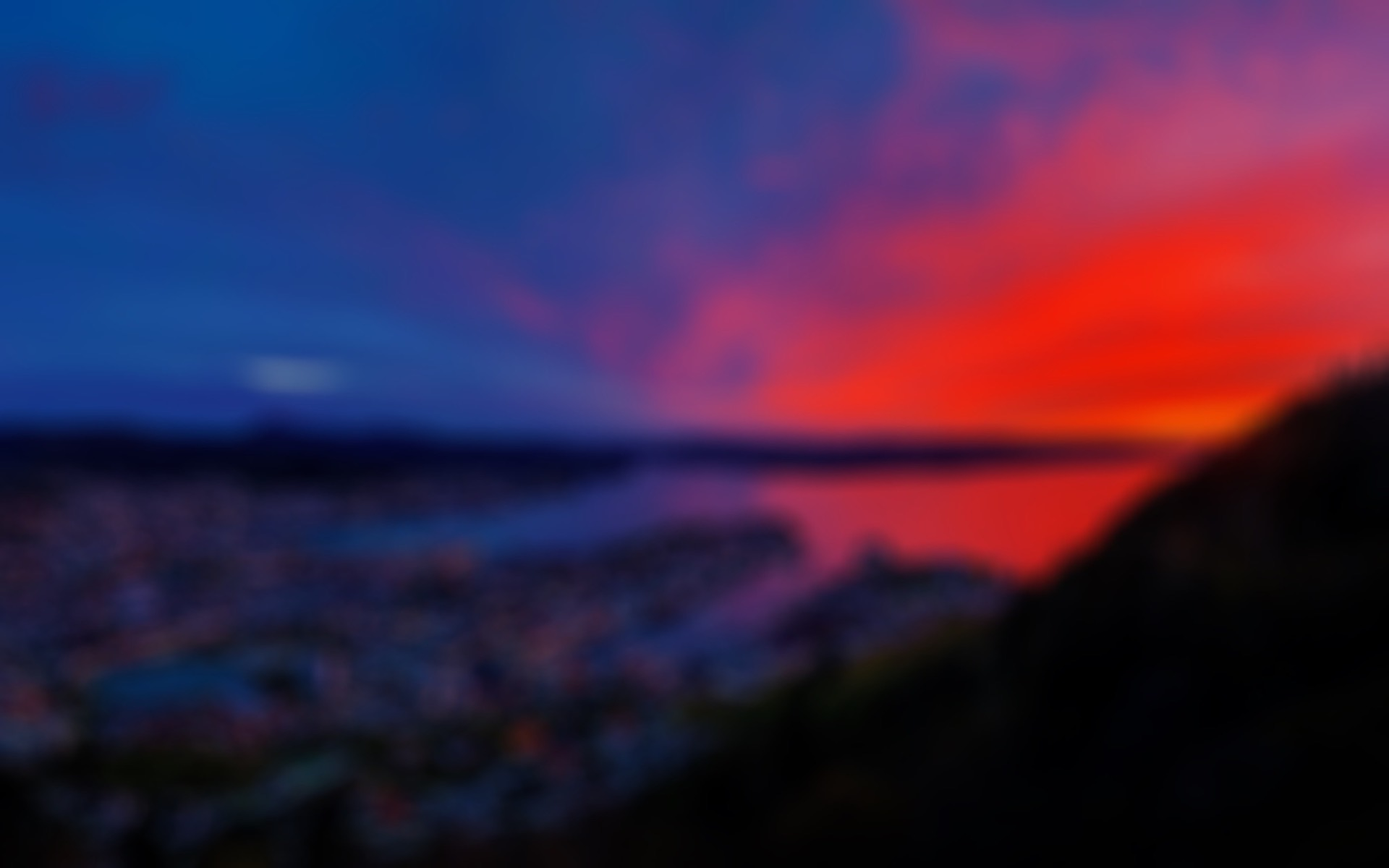
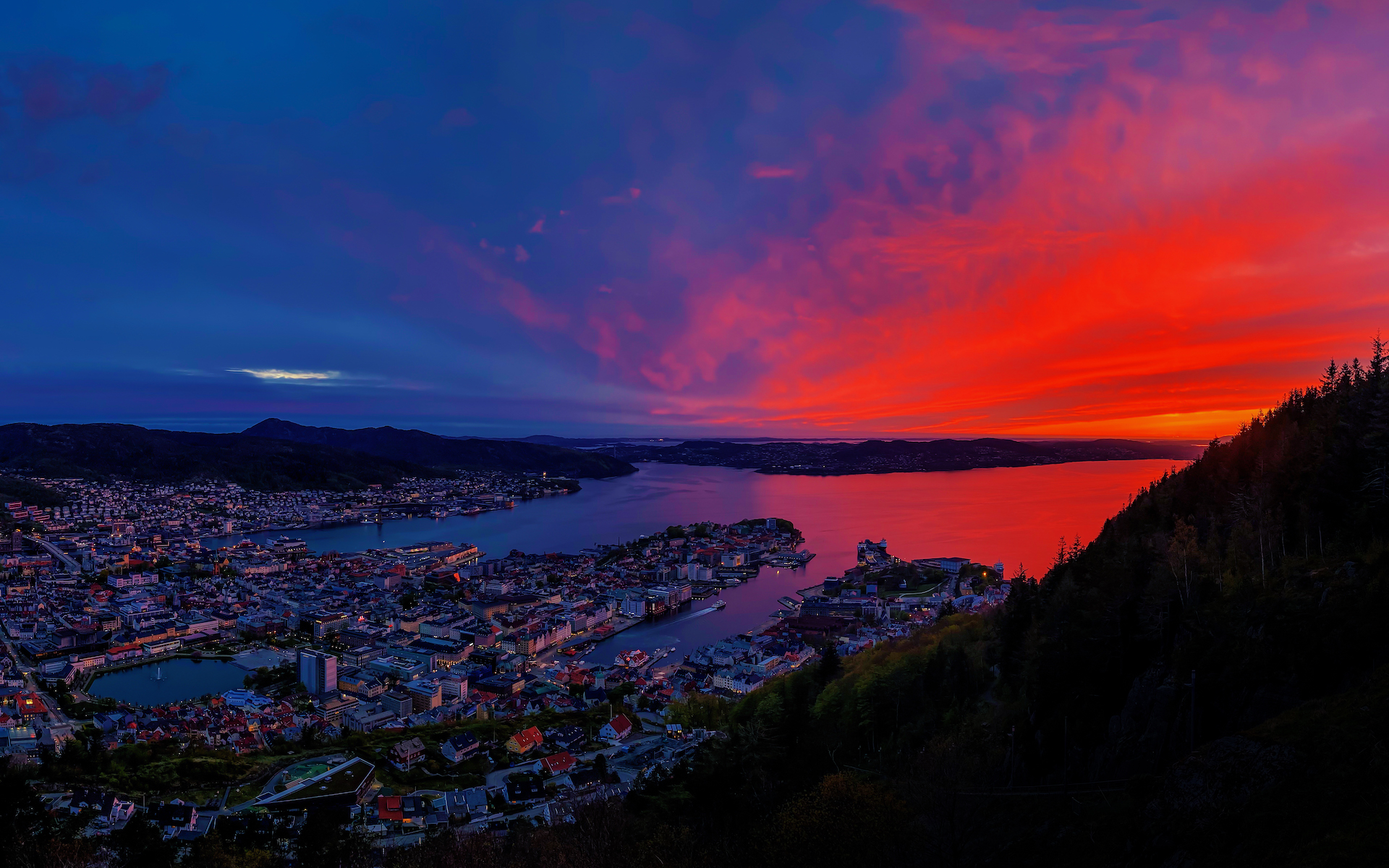
Who has two thumbs and remembers the rudiments of his linear algebra courses?  Apparently, this guy.

diff --git a/styles.css b/styles.css
@@ -10,10 +10,8 @@
 body {
     padding: 0;
     margin: 0;
-
-    background: var(--bg-image);
     background-color: var(--bg-color);
-    background-size: cover;
+    /* background-size: cover; */
     color: var(--text-color);
 
     font-family: 'Raleway', sans-serif;
@@ -21,6 +19,22 @@ body {
 
     user-select: none;
     animation: fadein 1s;
+}
+
+.page-bg {
+  background-image: var(--bg-image);
+  background-size: cover;
+  -webkit-filter: blur(13px);
+    -moz-filter: blur(13px);
+    -o-filter: blur(13px);
+    -ms-filter: blur(13px);
+    filter: blur(13px);
+  position: fixed;
+  width: 100%;
+  height: 100%;
+  top: 0;
+  left: 0;
+  z-index: -1;
 }
 
 #logo {
@@ -108,4 +122,10 @@ a {
     20% { opacity: 0.3; }
     80% { opacity: 0.3; }
     100%   { opacity: 0; }
+}
+
+.cbp-rfgrid li:hover img {
+-webkit-filter: blur(2px);
+-moz-filter: blur(2px);
+filter: blur(2px);
 }

diff --git a/index.html b/index.html
@@ -15,6 +15,8 @@
     <link rel="stylesheet" href="styles.css">
 </head>
 <body>
+  <div class="page-bg">
+  </div>
 	<div id="logo">
 		<!-- <h1 id="welcome-string"></h1> -->
     <h1 id="time"></h1>
